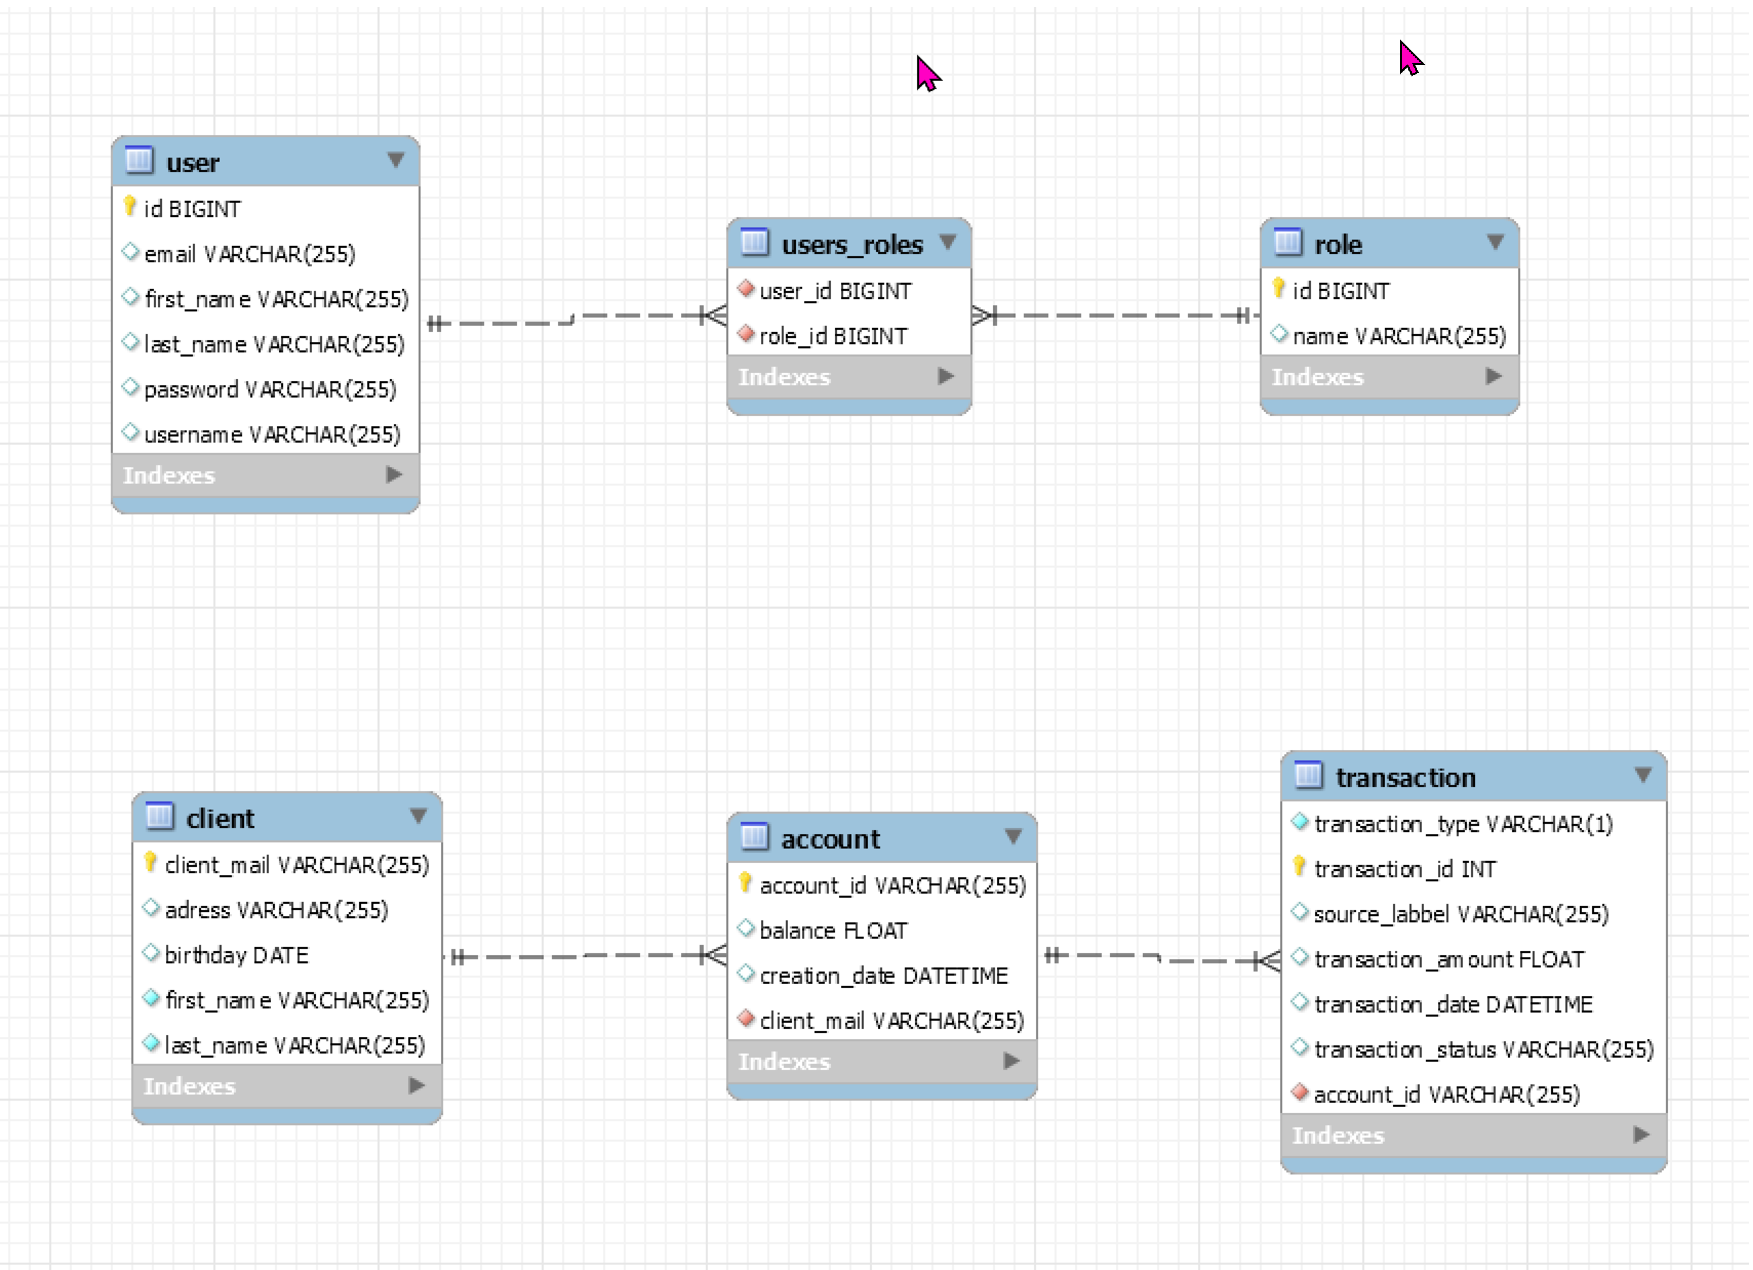
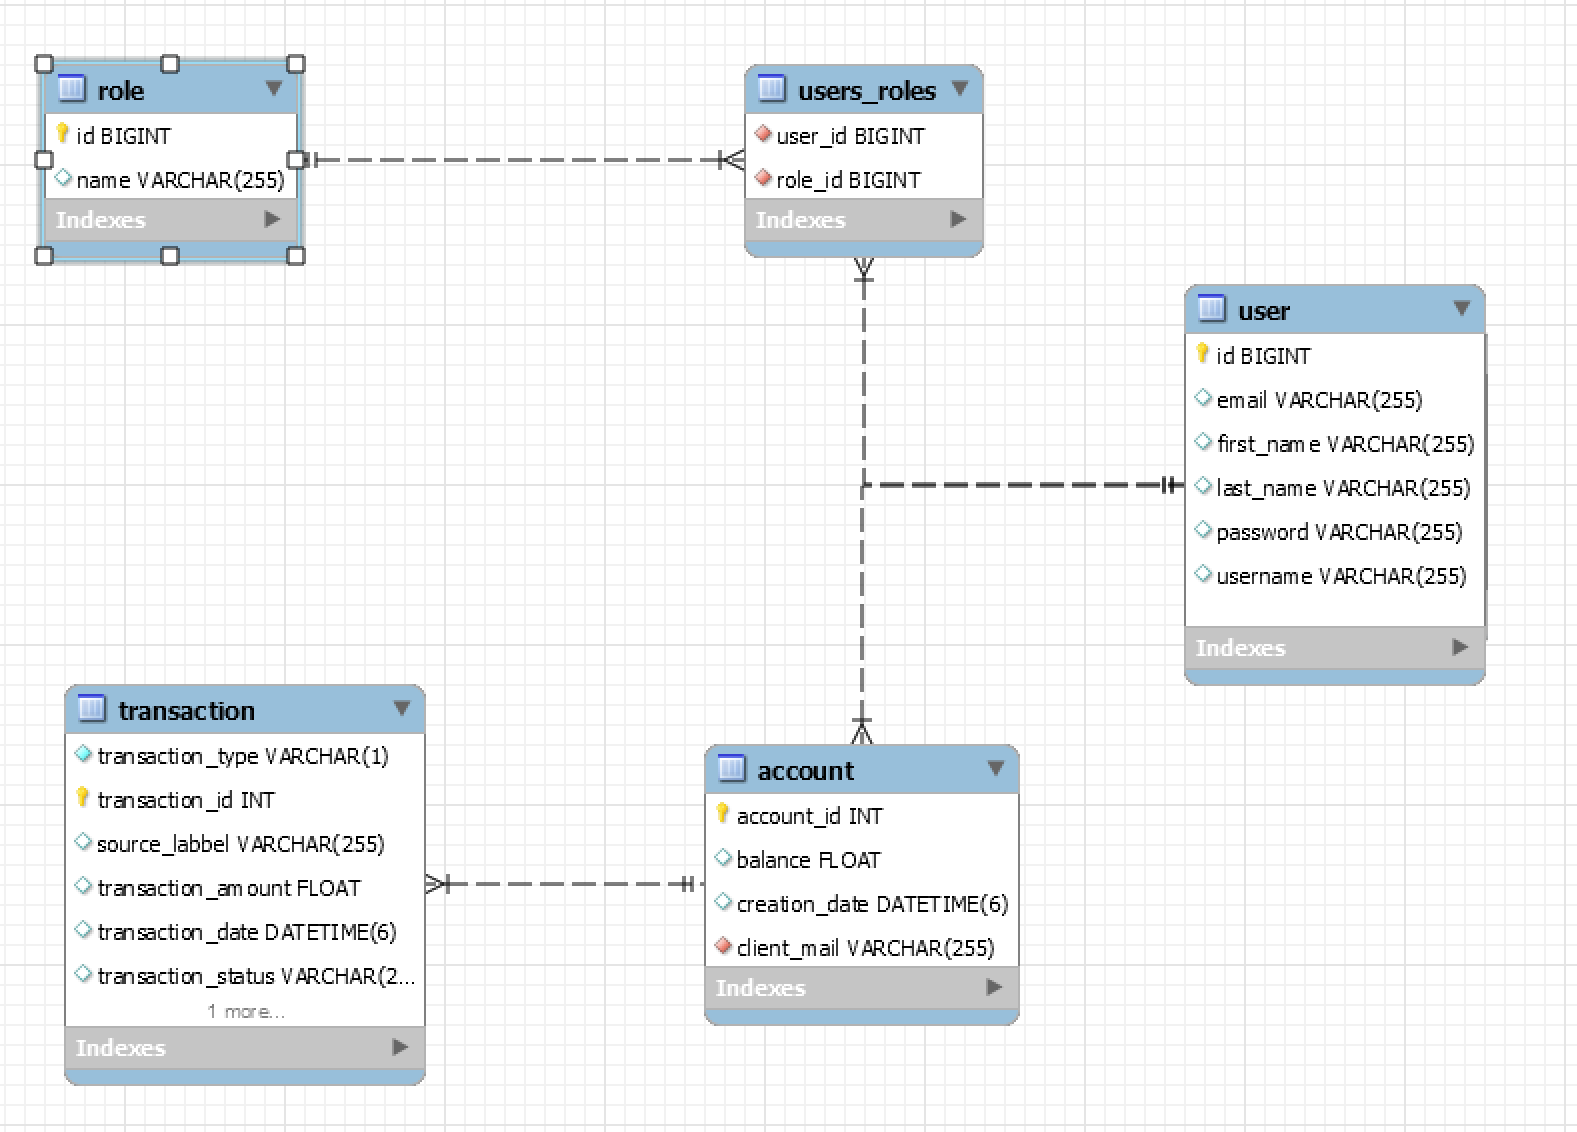
V1.0

diff --git a/src/main/java/com/paymybuddy/moneytransfert/login/user/NewUser.java b/src/main/java/com/paymybuddy/moneytransfert/login/user/NewUser.java
@@ -41,7 +41,7 @@ public class NewUser {
 
 	public NewUser() {
 	}
-	/*
+
 	public void setUserName(String userName) { this.userName = userName;}
 	public void setPassword(String password) {
 		this.password = password;
@@ -57,7 +57,7 @@ public class NewUser {
 	}
 	public void setEmail(String email) {
 		this.email = email;
-	}*/
+	}
 
 	public NewUser(String userName, String password, String matchingPassword, String firstName, String lastName, String email) {
 		this.userName = userName;

diff --git a/src/main/java/com/paymybuddy/moneytransfert/login/entity/User.java b/src/main/java/com/paymybuddy/moneytransfert/login/entity/User.java
@@ -54,13 +54,13 @@ public class User {
 		this.roles = roles;
 	}
 
-/*	public Long getId() {
+	public Long getId() {
 		return id;
-	}*/
+	}
 
-/*	public void setId(Long id) {
+	public void setId(Long id) {
 		this.id = id;
-	}*/
+	}
 
 	public String getUserName() {
 		return userName;

diff --git a/README.md b/README.md
@@ -1,6 +1,19 @@
 "# moneytransfert" 
 
-<h3>Class Diagram :</h3>
+<h3> Prototype d’une application bancaire </h3>  
+« moneytransfert », permettant aux clients de transférer de l'argent pour gérer leurs finances ou payer leurs amis 
+<br><br>
+<lu>
+<li> Les nouveaux utilisateurs doivent pouvoir s'enregistrer à l'aide d'un identifiant e-mail unique.
+<li> Les utilisateurs doivent pouvoir se connecter à partir de leurs comptes dans la base de données.
+<li> Après la connexion, les utilisateurs peuvent ajouter des personnes à leurs listes à partir de leur adresse e-mail
+<li> Un utilisateur peut verser de l'argent sur son compte dans notre application
+<li> À partir du solde disponible, les utilisateurs peuvent effectuer des paiements à tout autre utilisateur enregistré sur l'application
+<li> À tout moment, les utilisateurs peuvent transférer l'argent vers leur compte bancaire
+<li> À chaque transaction, nous prélevons un pourcentage de 0,5 % pour monétiser l’application
+</lu>
+
+<h3> Diagramme de classe :</h3>
 
 <div itemprop="text" class="Box-body p-0 blob-wrapper data type-text  gist-border-0">
     <div class="text-center p-3">
@@ -10,7 +23,7 @@
     </div>
 </div>
 
-<h3>MPD :</h3>
+<h3>Modèle Physique de Données :</h3>
 
 <div itemprop="text" class="Box-body p-0 blob-wrapper data type-text  gist-border-0">
     <div class="text-center p-3">
@@ -20,83 +33,36 @@
     </div>
 </div>
 
-<h3>1- Créer et connecter manuellement la base de données MySql</h3> 
-<div style="margin-left: 3em">
-1 : Dans votre SGBD, créer une base de données avec le nom "moneytransfert" avec aucune table dedans
+<h3> Choix architecture </h3>
+<lu>
+<li> Spring Boot
+<li> Spring MVC
+<li> Spring Data JPA
+<li> Maven
+<li> Thymeleaf
+<li> Spring Security
+<li> Thymeleaf security
+<li> MySQL(MYSQL spring Driver)
+<li> Junit/AssertJ
+<li> JaCoCo
+<li> Logback
+</lu>
 
-2 : Mettre à jour le fichier application.properties avec le user et le mot de passe de la base de donnees
-
+<h3>Lancement de l'application</h3>
+<b>Paramètres du fichier applciation.properties :</b><br>
+<p style="margin-left: 3em">
+<br><b> Ces paramètres doivent être renseignés pour la connexion à la base de données</b><br>
 spring.datasource.username=<br>
-spring.datasource.password=
+spring.datasource.password=<br>
+<br><b>Tester la connexion en lançant la classe test : com.paymybuddy.moneytransfert.app.config.DataBaseConfigTest</b><br>
+<br><b> Initialistion de la base de données seuleement lors du premier lancement</b><br>
+spring.datasource.platform=init<br>
+<br><b> Une fois la base de données initialisée lors du premier lancement, par la suite, commenter cette ligne </b><br>
+#spring.datasource.platform=init<br>
 
-3 : Tester la connexion en lançant la classe test :
-com.paymybuddy.moneytransfert.app.config.DataBaseConfigTest
-
-</div>
-<h3>2.0- Création automatique des tables par Spring JPA </h3> pour créer les tables de la base de donnée : Mettre à jour les paramètres suivants dans le fichier application.properties
-
-<div style="margin-left: 3em">
-1 : Vérifier que la ligne suivante est à "create" : 
-<b>spring.jpa.hibernate.ddl-auto = create</b>
-
-2 : Vérifier que la ligne suivante est commentée (#) : <b>#</b>spring.datasource.platform=update
-
-3 : Lancer l'application
-
-4 : A la fin du lancement de l'application, vérifer la création des tables, des clés étrangères, des séquances
-
-</div>
-
-<h3>2.1- Création par script SQL </h3> 
-Pour créer les tables de la base de donnée : Mettre à jour les paramètres suivants dans le fichier application.properties
-
-<div style="margin-left: 3em">
-1 : Vérifier que la ligne suivante est à "create" : 
-<b>spring.jpa.hibernate.ddl-auto = create</b>
-
-2 : Vérifier que la ligne suivante est commentée (#) : <b>#</b>spring.datasource.platform=update
-
-3 : Lancer l'application
-
-4 : A la fin du lancement de l'application, vérifer la création des tables, des clés étrangères, des séquances
-
-</div>
-
-<h3>3- Redémarrer l'aplication, pour l'injection des données de sécurité</h3> avec les paramètres suivants :
-<div style="margin-left: 3em">
-
-1 : "update" : <b>spring.jpa.hibernate.ddl-auto = update</b>
-
-2 : Décommenter la ligne suivante : <b>spring.datasource.platform=update</b>
-
-3 : Redémarrer l'application
-
-4 : A la fin du lancement de l'application,vérifer que les données du fichier "data-update.sql" ont été bien injectées.
-
-</div>
-
-<h3>4- Recommenter la ligne </h3>
-<div style="margin-left: 3em">
-
-<b>#</b>spring.datasource.platform=update
-
-</div>
-
-<h2>
-
-Fichier sql pour base de données MySql :
-</h2>
-
-<b>- Création de la base de données</b><br>
-<b>- injection de quelques données de test</b><br>
-
-<a href=".\sql-scripts\InitSchema&InjectSampleData.sql">InitSchema&InjectSampleData.sql</a>
 
 <h2>Annexe </h2>
 <div style="margin-left: 3em">
-
-
-
 
 <b>To run the app under command line</b><br>
 => mvn spring-boot:run
@@ -114,11 +80,11 @@ Fichier sql pour base de données MySql :
 => env
 <br><br>
 
-<b>Winwdows, To externalize DB password => </b><br>
-Add a new Windos environment variable "spring.datasource.password" with the right password value corresponding to your DB<br>
-Remove the "spring.datasource.password" parameter from application.properties file, or comment it<br>
-run the app on the command line : mvn spring-boot:run
-<br><br>
-
+<b>Winwdows, To externalize DB password </b>
+<lu style="margin-left: 3em">
+<li> Add a new Windos environment variable "spring.datasource.password" with the right password value corresponding to your DB</li>
+<li> Remove the "spring.datasource.password" parameter from application.properties file, or comment it</li>
+<li> run the app on the command line : mvn spring-boot:run</li>
+<lu/>
 
 </div>
